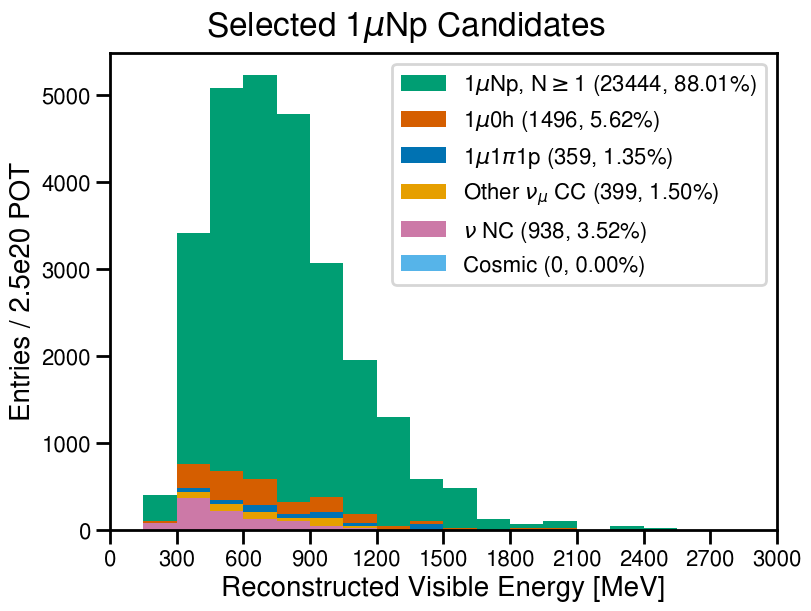
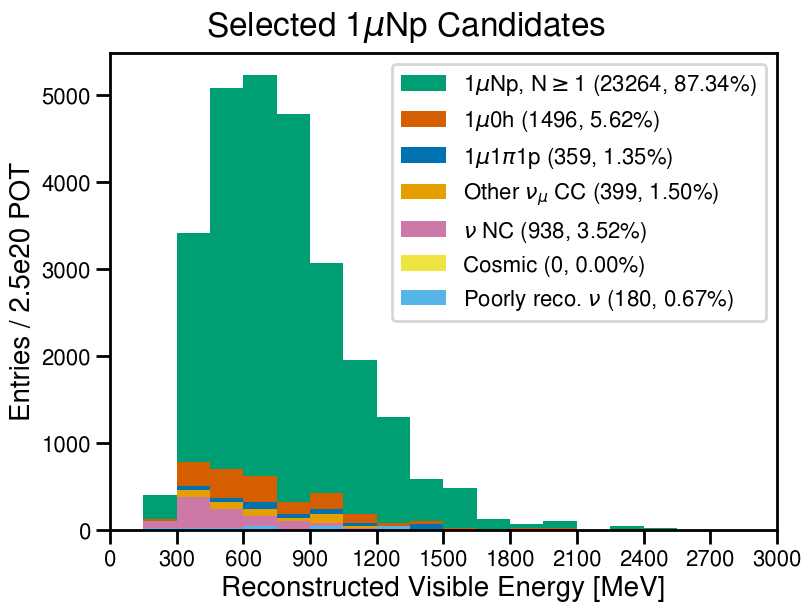
Moved misreconstructed neutrinos into a separate "final state" category

diff --git a/include/variables.h b/include/variables.h
@@ -108,9 +108,11 @@ namespace vars
                 }
                 if(counts[0] == 0 && counts[1] == 0 && counts[2] == 1)
                 {
-                    if(counts[3] == 0 && counts[4] == 1) cat = 0;
+                    if(counts[3] == 0 && counts[4] == 1 && interaction.is_contained && interaction.is_fiducial) cat = 0;
+                    else if(counts[3] == 0 && counts[4] == 1) cat = 7;
                     else if(counts[3] == 0 && counts[4] == 0) cat = 1;
-                    else if(counts[3] == 0 && counts[4] > 1) cat = 2;
+                    else if(counts[3] == 0 && counts[4] > 1 && interaction.is_contained && interaction.is_fiducial) cat = 2;
+                    else if(counts[3] == 0 && counts[4] > 1) cat = 7;
                     else if(counts[3] == 1 && counts[4] == 1) cat = 3;
                     else if(interaction.nu_current_type == 0) cat = 4;
                 }
